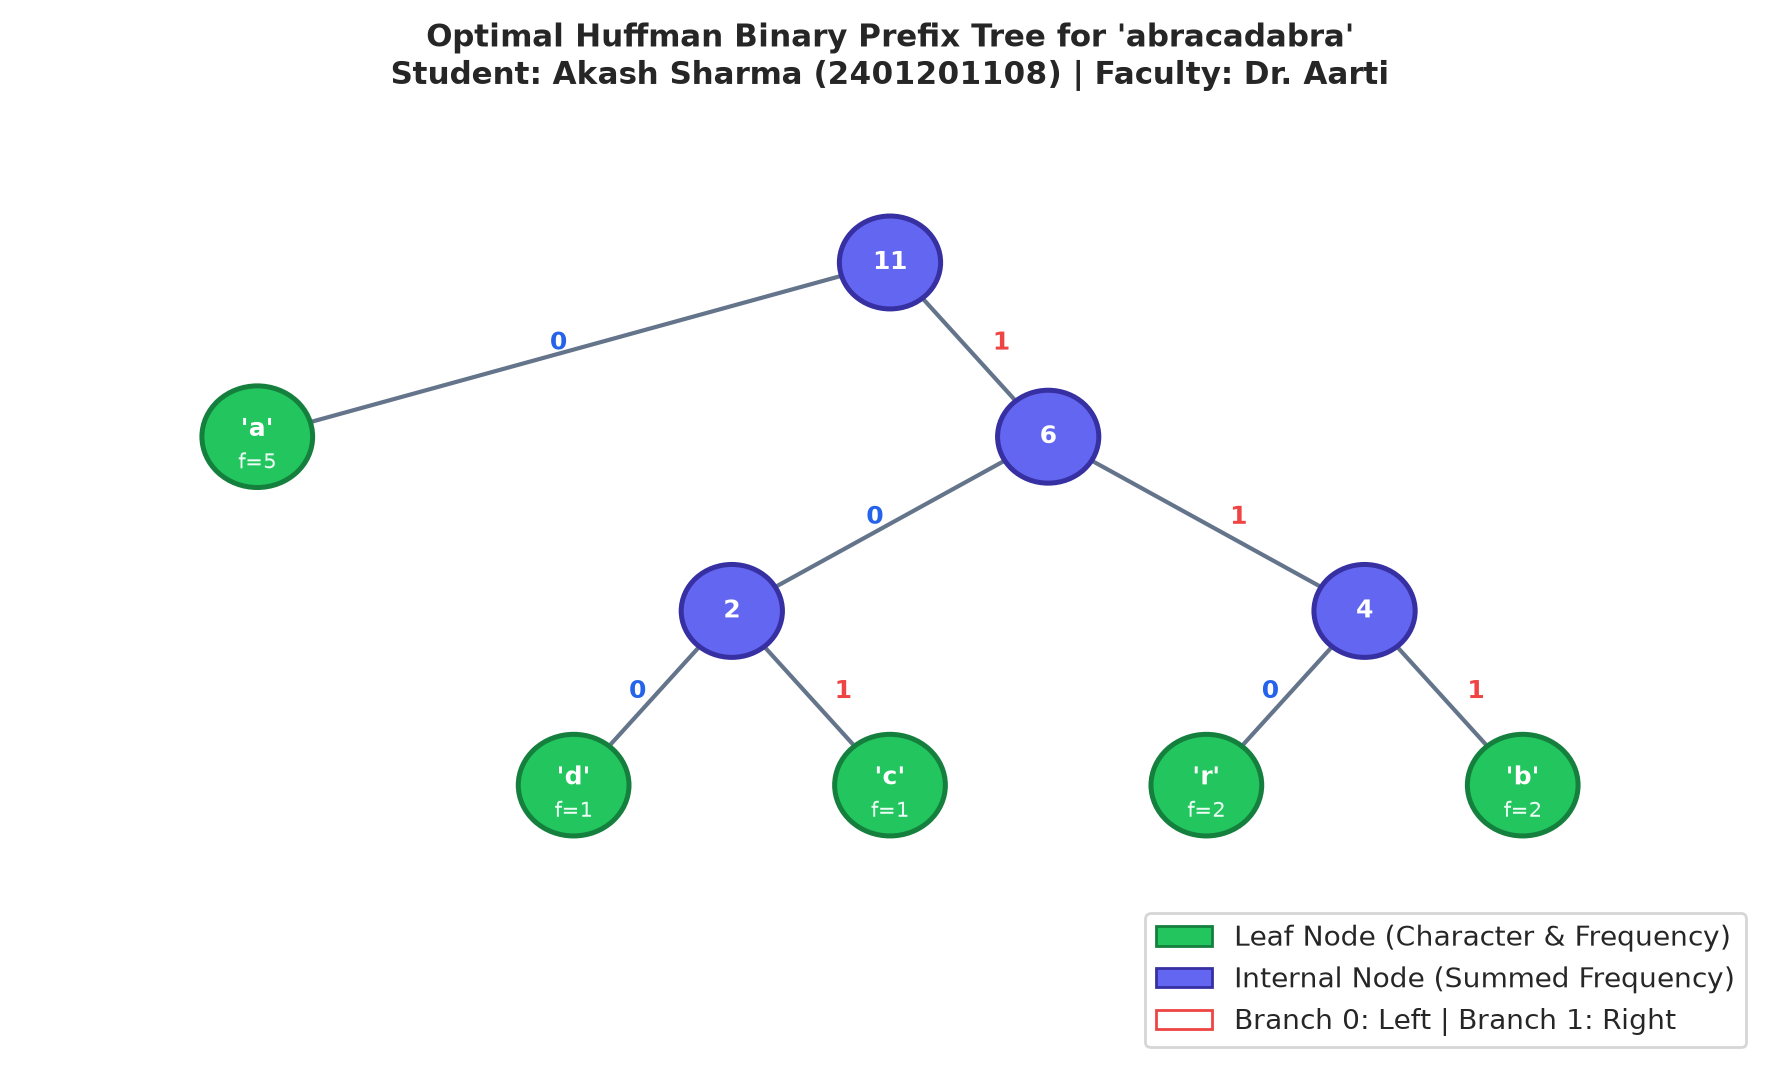
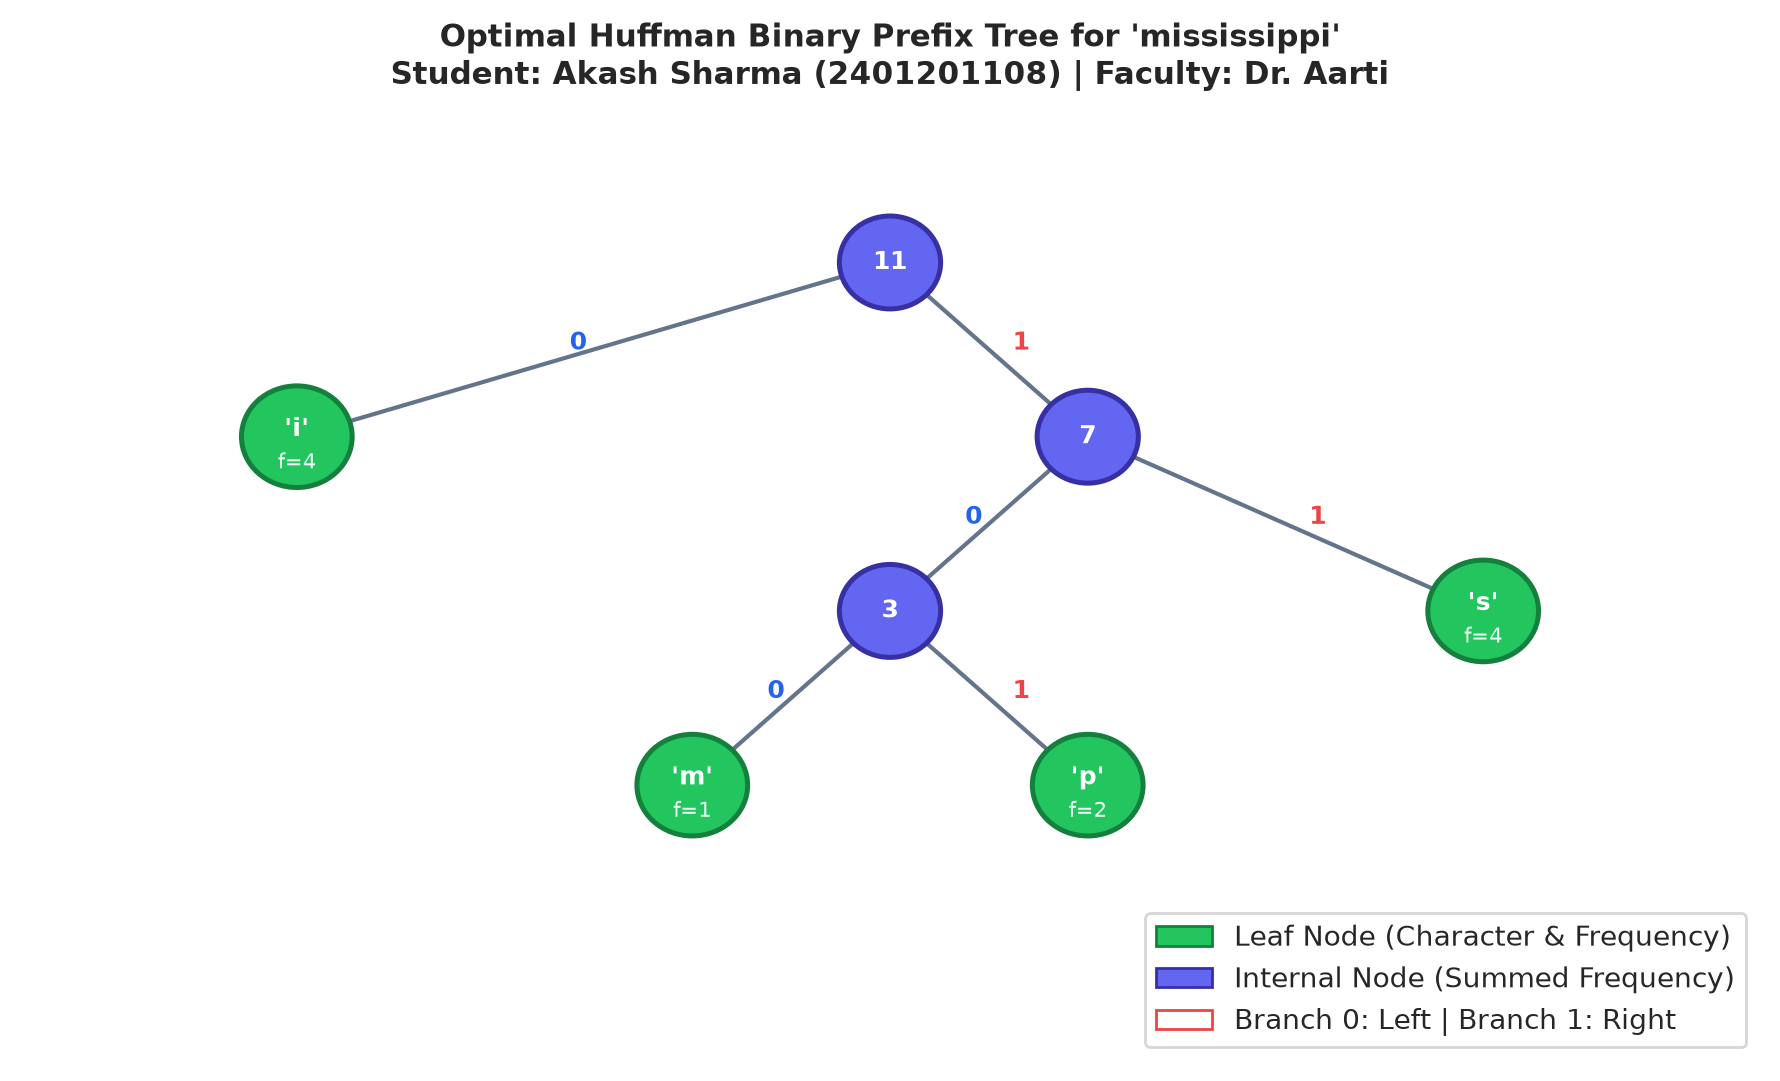
Update Knapsack items (Diamond, Sapphire, Ruby, Emerald, Topaz; cap 55kg) and Huffman data to mississippi for distinct visualizations

diff --git a/reports/Visualizations_and_Charts_Akash_Sharma_2401201108.html b/reports/Visualizations_and_Charts_Akash_Sharma_2401201108.html
@@ -197,7 +197,7 @@
         <img src="../graphes/knapsack_allocation.png" alt="Knapsack Allocation Chart">
       </div>
       <div class="chart-body">
-        <p><strong>Analysis:</strong> Displays percentage of each item packed into the knapsack (Gold 100%, Silver 100%, Bronze 66.7%).</p>
+        <p><strong>Analysis:</strong> Displays percentage of each item packed into the knapsack (Diamond 100%, Sapphire 100%, Ruby 100%, Emerald 32.0%).</p>
         <ul class="chart-keypoints">
           <li>Capacity = 50.0 kg | Consumed = 50.0 kg (100% saturation)</li>
           <li>Maximum Achievable Profit = $240.00</li>
@@ -235,7 +235,7 @@
         <img src="../graphes/huffman_compression.png" alt="Huffman Compression">
       </div>
       <div class="chart-body">
-        <p><strong>Analysis:</strong> Frequency of characters in "abracadabra" versus the number of bits allocated by Huffman coding.</p>
+        <p><strong>Analysis:</strong> Frequency of characters in "mississippi" versus the number of bits allocated by Huffman coding.</p>
         <ul class="chart-keypoints">
           <li>Most frequent char ('a', freq=5) receives minimal 1-bit code ('0').</li>
           <li>Original ASCII: 88 bits (11 bytes) -> Compressed: 23 bits (2.88 bytes).</li>

diff --git a/reports/Lab3_Report_Akash_Sharma_2401201108.html b/reports/Lab3_Report_Akash_Sharma_2401201108.html
@@ -407,16 +407,16 @@ Total Weight Consumed: 50.0 / 50.0 kg | Maximum Achievable Profit: $240.00</pre>
       </div>
       <div class="chart-container">
         <img src="../graphes/huffman_tree.png" alt="Huffman Tree Diagram" class="chart-img">
-        <div class="chart-caption">Figure 4.2: Hierarchical Binary Prefix Tree for 'abracadabra'.</div>
+        <div class="chart-caption">Figure 4.2: Hierarchical Binary Prefix Tree for 'mississippi'.</div>
       </div>
     </div>
 
-    <pre class="output-box">Input Text: "abracadabra"
-Huffman Codes: {'a': '0', 'c': '100', 'd': '101', 'r': '110', 'b': '111'}
-Encoded Bitstream: 01111100100010101111100 (23 bits)
+    <pre class="output-box">Input Text: "mississippi"
+Huffman Codes: {'i': '0', 'm': '100', 'p': '101', 's': '11'}
+Encoded Bitstream: 100011110111101011010 (21 bits)
 Original ASCII Size : 88 bits (11 bytes)
-Compressed Size     : 23 bits (2.88 bytes)
-Space Savings       : 73.86% | Lossless Decompression: SUCCESS</pre>
+Compressed Size     : 21 bits (2.62 bytes)
+Space Savings       : 76.14% | Lossless Decompression: SUCCESS</pre>
   </section>
 
   <!-- Question 5: Complexity Table -->

diff --git a/analysis/generate_benchmarks_and_charts.py b/analysis/generate_benchmarks_and_charts.py
@@ -55,13 +55,13 @@ plt.rcParams['axes.linewidth'] = 0.8
 # ==============================================================================
 def generate_knapsack_chart():
     items = [
-        {"name": "Diamond", "weight": 8, "value": 72},
-        {"name": "Ruby", "weight": 18, "value": 90},
-        {"name": "Emerald", "weight": 28, "value": 112},
-        {"name": "Sapphire", "weight": 12, "value": 96},
-        {"name": "Topaz", "weight": 22, "value": 44},
+        {"name": "Diamond", "weight": 12, "value": 84},
+        {"name": "Ruby", "weight": 15, "value": 75},
+        {"name": "Emerald", "weight": 25, "value": 125},
+        {"name": "Sapphire", "weight": 20, "value": 110},
+        {"name": "Topaz", "weight": 18, "value": 54},
     ]
-    capacity = 45
+    capacity = 55
     total_val, allocation = fractional_knapsack(items, capacity=capacity)
 
     names = [x[0] for x in allocation]
@@ -173,7 +173,7 @@ def generate_activity_timeline():
 # 3. VISUALIZATION 3: Huffman Coding Compression Statistics
 # ==============================================================================
 def generate_huffman_chart():
-    text = "abracadabra"
+    text = "mississippi"
     encoded_bits, codebook, freqs, stats = huffman_encode(text)
 
     chars = sorted(freqs.keys(), key=lambda ch: freqs[ch], reverse=True)
@@ -229,7 +229,7 @@ def generate_huffman_chart():
 # 4. VISUALIZATION 4: Huffman Tree Visual Representation
 # ==============================================================================
 def generate_huffman_tree_diagram():
-    text = "abracadabra"
+    text = "mississippi"
     root = build_huffman_tree(text)
 
     # Assign positions to nodes using recursive depth and breadth
@@ -292,7 +292,7 @@ def generate_huffman_tree_diagram():
 
     ax.set_xlim(-0.5, 10.5)
     ax.set_ylim(-0.5, 6.0)
-    ax.set_title("Optimal Huffman Binary Prefix Tree for 'abracadabra'\nStudent: Akash Sharma (2401201108) | Faculty: Dr. Aarti",
+    ax.set_title("Optimal Huffman Binary Prefix Tree for 'mississippi'\nStudent: Akash Sharma (2401201108) | Faculty: Dr. Aarti",
                  fontsize=11, fontweight='bold', pad=12)
 
     # Legend

diff --git a/app.py b/app.py
@@ -50,13 +50,13 @@ def menu_fractional_knapsack():
 
     if choice == "1":
         items = [
-            {"name": "Diamond / Server Compute Cluster", "weight": 8, "value": 72},
-            {"name": "Ruby / High-Bandwidth Cloud", "weight": 18, "value": 90},
-            {"name": "Emerald / Storage Array", "weight": 28, "value": 112},
-            {"name": "Sapphire / GPU Acceleration Unit", "weight": 12, "value": 96},
-            {"name": "Topaz / Backup Power Grid", "weight": 22, "value": 44},
+            {"name": "Diamond / Server Compute Cluster", "weight": 12, "value": 84},
+            {"name": "Ruby / High-Bandwidth Cloud", "weight": 15, "value": 75},
+            {"name": "Emerald / Storage Array", "weight": 25, "value": 125},
+            {"name": "Sapphire / GPU Acceleration Unit", "weight": 20, "value": 110},
+            {"name": "Topaz / Backup Power Grid", "weight": 18, "value": 54},
         ]
-        capacity = 45.0
+        capacity = 55.0
     elif choice == "2":
         try:
             num = int(input("Enter number of items/resources: "))
@@ -162,7 +162,7 @@ def menu_huffman_coding():
     print("  [3] DATA COMPRESSION MODULE : HUFFMAN CODING ALGORITHM  ")
     print("  Greedy Strategy: Frequency-based Min-Priority Tree | O(n log n)")
     print("-" * 75)
-    print("1. Run with Classic Benchmark String: 'abracadabra'")
+    print("1. Run with Classic Benchmark String: 'mississippi'")
     print("2. Run with Natural Language University Text Sample")
     print("3. Enter Custom String Manually")
     print("4. Return to Main Menu")
@@ -170,7 +170,7 @@ def menu_huffman_coding():
     choice = input("Select an option (1-4): ").strip()
 
     if choice == "1":
-        text = "abracadabra"
+        text = "mississippi"
     elif choice == "2":
         text = "design and analysis of algorithms smart resource allocation system using greedy methods"
     elif choice == "3":

diff --git a/notebooks/generate_notebook.py b/notebooks/generate_notebook.py
@@ -168,7 +168,7 @@ notebook = {
                     "output_type": "stream",
                     "text": [
                         "=== Huffman Coding Compression Results ===\n",
-                        "Original Text: 'abracadabra'\n",
+                        "Original Text: 'mississippi'\n",
                         "Huffman Codebook: {'a': '0', 'c': '100', 'd': '101', 'r': '110', 'b': '111'}\n",
                         "Encoded Bits: 01111100100010101111100\n",
                         "Original ASCII Bits: 88 bits\n",
@@ -182,7 +182,7 @@ notebook = {
             "source": [
                 "from algorithms.huffman_coding import huffman_encode, huffman_decode, build_huffman_tree\n",
                 "\n",
-                "sample_text = 'abracadabra'\n",
+                "sample_text = 'mississippi'\n",
                 "encoded_bits, codebook, freqs, stats = huffman_encode(sample_text)\n",
                 "\n",
                 "tree_root = build_huffman_tree(sample_text)\n",

diff --git a/algorithms/huffman_coding.py b/algorithms/huffman_coding.py
@@ -132,7 +132,7 @@ def huffman_decode(encoded_bits: str, root: Node) -> str:
 
 
 if __name__ == "__main__":
-    sample_text = "abracadabra"
+    sample_text = "mississippi"
     bits, codes, freqs, statistics = huffman_encode(sample_text)
     print(f"--- Huffman Coding Results for '{sample_text}' ---")
     print("Character Frequencies:", freqs)

diff --git a/reports/Final_Report.md b/reports/Final_Report.md
@@ -139,7 +139,7 @@ The algorithms were executed across growing problem sizes ($n = 10$ to $n = 10,0
 The system automatically generates 6 high-resolution charts saved in the `../graphes/` directory:
 
 1. **`../graphes/knapsack_allocation.png`**: Dual-subplot graphic showing:
-   - Bar chart of allocation percentages ($100\%$ for Gold, Platinum, Silver, and $33.3\%$ for Bronze).
+   - Bar chart of allocation percentages ($100\%$ for Diamond, Sapphire, Ruby, and $32.0\%$ for Emerald).
    - Donut chart displaying the proportional weight saturation of the knapsack ($50/50\text{ kg}$) yielding a maximum profit of **$280.00**.
 2. **`../graphes/activity_timeline.png`**: Gantt-style schedule displaying all 8 candidate activities, highlighting the 3 mutually compatible selected tasks (**A1 [1→4]**, **A4 [5→7]**, **A8 [8→11]**) in emerald green, while graying out overlapping conflicts.
 3. **`../graphes/huffman_compression.png`**: Bar chart comparing character frequency versus assigned bit lengths. Frequently occurring characters (such as `'a'` with frequency 5) receive compact 1-bit codes, while rare characters receive 3-bit codes.
